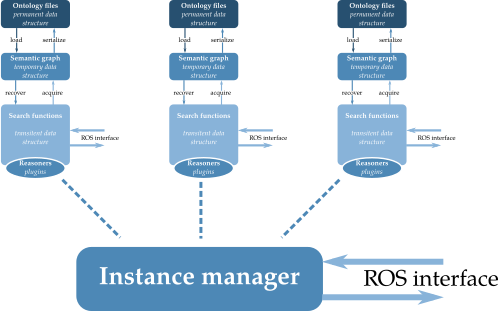
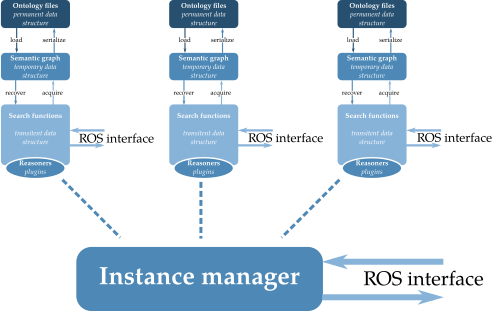
chapter 2 multi instances

diff --git a/Chapter2.tex b/Chapter2.tex
@@ -206,6 +206,8 @@ Reasoning on a \acrlong{kb} is a primal need to extract need knowledge from the 
 
 The reasoners are implemented on the base of plugins for an easy extension. The proposed plugin interface allows the execution of reasoning processes either before the resolution of a query, after an update of the \acrshort{kb}, or periodically. The reasoners are not necessarily limited to first-order logic. Users can implement any process depending on their needs. To date, we have four usual reasoners to solve the symmetric properties, the inverse properties, to reason on domain and range, and to solve chained axioms. We have also implemented a reasoner dedicated to the proposition of complementary labels and another to create relations on classes, using annotation properties, being generalization of the existing relation. For example, if several entities own relation toward the same CAD model file, the reasoner will generate a relation toward this CAD model to an upper common class to all these entities.
 
+To choose the reasoners to run depending on the applications, a configuration file in YAML can be provided to state the reasoner to active or not. In addition, it can be used to set parameters on them, like thresholds or others. However, it is not because a reasoner has not been activated at the launch that it will never run. Any available reasoner can be activated and deactivated at run time.
+
 To avoid time loss during reasoning, two mechanisms are available. For the reasoners needing to only run once on each element, they can mark the elements on which they have run. By checking these marks they can know if an element has already been analysed or not. The second can be compared to a to-do list. Any element owns an update flag. When an element is modified by an external process, like a perception process, the flag of the element is raised. Reasoners then run only on the elements having this flag raised. If they find a new relation to insert in the \acrshort{kb}, they can raise the flags of the impacted elements. The other reasoners will thus check again for these newly updated elements. A reasoning pass ends when no more update has been performed by any of the reasoners.
 
 Finally, to facilitate the deletion of inferred relations, to any relation of any element can be attached a reference toward the relations they have allowed to infer. In this way, by removing a relation, we can know the side relations to remove with. For example, consider the chain axiom $isIn \bullet isOn \Rightarrow isOn$. If A is in B and B is on C, the reasoners will generate the relation A is on C. The two former relations have thus allowed the inference of the latter. If one of them is removed, the third also has to be removed. If A is no more in B, it is consequently no more on C. In this way, the \acrshort{kb} can always be kept up to date without performing reasoning from scratch at each update neither by creating a side model dedicated to the reasoning. However, it is less efficient than classic reasoning methods.
@@ -216,13 +218,47 @@ Having labels attached to elements is quite usual. As others, Ontologenius attac
 
 \section{Managing others' estimated knowledge}
 
+A major feature of Ontologenius is the ability to manage several ontology instances, to represent both the robot's knowledge and the estimation of its partners' knowledge. In this section, we first present how the multiple instances are managed by Ontologenius. We then present two advanced use being the deep copy of an instance and the representation of multiple knowledge state in a single instance.
+
 \subsection{Ontologenius multi-instances principle}
+
+What we refer to when we use the term instance is an instantiation to the previously presented architecture. It thus represents a single \acrlong{kb} being either the one of the robot or an estimation of the \acrlong{kb} of one of its partners. To manage multiple instances, we use the architecture represented in figure~\ref{fig:chap2_archi_multi}.
+
+\begin{figure}[ht!]
+\centering
+\includegraphics[width=\textwidth]{figures/chapter2/archi_multi.png}
+\caption{\label{fig:chap2_archi_multi} The software architecture of Ontologenius to manage multiple \acrlong{kb}s in the form of an ontology. An instance manager make the link between each instance and has a direct access to each semantic graph to propose queries. }
+\end{figure}
+
+The architecture of each instance stays the same as previously, this means that each instance has its own ROS instance and can be queried and updated independently. However, to not just manually run several instances and not have any conflict on the ROS topics and services names, we add an instance manager. This manager owns all the instances and can create new ones as well as deleting existing ones. In addition, it attributes an identifier to each instance, being often the identifier of the agent it represents. With this identifier, each instance creates dedicated and non-overlapping ROS services and topics. The manager itself owns a ROS interface to perform the deletions and creations.
+
+When a new instance is created, it runs in a dedicated thread. Consequently, having multiple instances does not slow down Ontologenius. The manager keeps however a reference to the instance and can have access to the knowledge of each of them without passing by ROS. It allows the manager to propose queries involving several instances. For example, the only existing one for the moment computes the difference of knowledge between two instances, about a given entity. It allows easy and efficient belief divergence checking.
+
+Finally, because each instance has an identifier, when one is killed, it stores the maintained knowledge in an OWL file referenced with this identifier. Consequently, when an instance is started, it can automatically load the previous state of the \acrshort{kb}, using the instance identifier.
 
 \subsection{Catching knowledge at a given moment}
 
+The instances representing the robot's \acrshort{kb} and the estimation of its partners' \acrshort{kb}s aims to be continuously updated by perception processes. However, some processes like task planning could need a stable version of a \acrshort{kb}. In addition, some processes like (once again) task planning could need to modify a \acrshort{kb} to represent future possible states. Nevertheless, if a process modifies the same \acrshort{kb} that is updated by the perception, it would neither represent the future state, neither the current state.
+
+To avoid such a situation, Ontologenius provides a mechanism to copy an instance. It performs a deep copy, keeping all the inferred knowledge, the inference traces, or the reasoners' configurations. The resulting instance becomes completely independent from the previous one and can be modified without altering it.
+
+The only difference is that an instance resulting from a copy will not be saved into an OWL file when it will be deleted. It is a draft, to test possible state.
+
 \subsection{Exploring several possible mental states at once}
 
+Having a dedicated instance to represent possible futures is useful, but planning processes could need to maintain multiple states at a time. A deep copy is far from being a free operation as presented in the result section of this chapter. It takes time, especially for large \acrshort{kb}s. Moreover, we can not imagine to maintain too many instances at the time\footnote{From our unlucky tests, the process died after the creation of 82 instances with small knowledge bases.}.
 
+To face this issue, we propose with Ontoogenius a kind of versioning system. First of all, this system is only available on instance resulting from a copy, as the others do not aim to represent multiple states. Taking the term of the git versioning system, we perform some modification on a \acrshort{kb} and all the changes are tracked. When we consider that all the changes represent a version, we perform a commit. This commit has an identifier, and a parent commits. Wanting to go back to a previous version of the \acrshort{kb} we can checkout this version thanks to the identifier. The versioning system thus applies the modifications in the inverse order to create the previous state. From there we can thus have multiple version of the same \acrshort{kb} but it only represents a linear evolution. Most of the planning systems work with branching, allowing from one state to imagine multiple future states. Where git would use branches also, with ontologenius, we do not and we can simply perform a new commit on an old one. It automatically a new branch without explicit management of it. We can thus checkout a commit of another branch without any problem. However, once a branch is created, it will never be possible to merge it with another one. Consequently, it creates a tree.
+
+From the commit identifier, the users are free to set it or to let Ontologenius setting it.
+
+\begin{figure}[ht!]
+\centering
+\includegraphics[scale=0.22]{figures/chapter2/commit.png}
+\caption{\label{fig:chap2_commit} An example of a versioning tree drawn with Ontologenius. In red are the commits and in blue the changes. The temporal order of the operations is respected from top to bottom. }
+\end{figure}
+
+Finally, for debug purpose, Ontologenius can generate an XML file representing all the versioning, with the commits and the changes. An executable allows then to generate an image of it to understand what an algorithm has performed. An example of such an image is presented in figure~\ref{fig:chap2_commit}.
 
 \section{Using Ontologenius in robotic applications}
 
